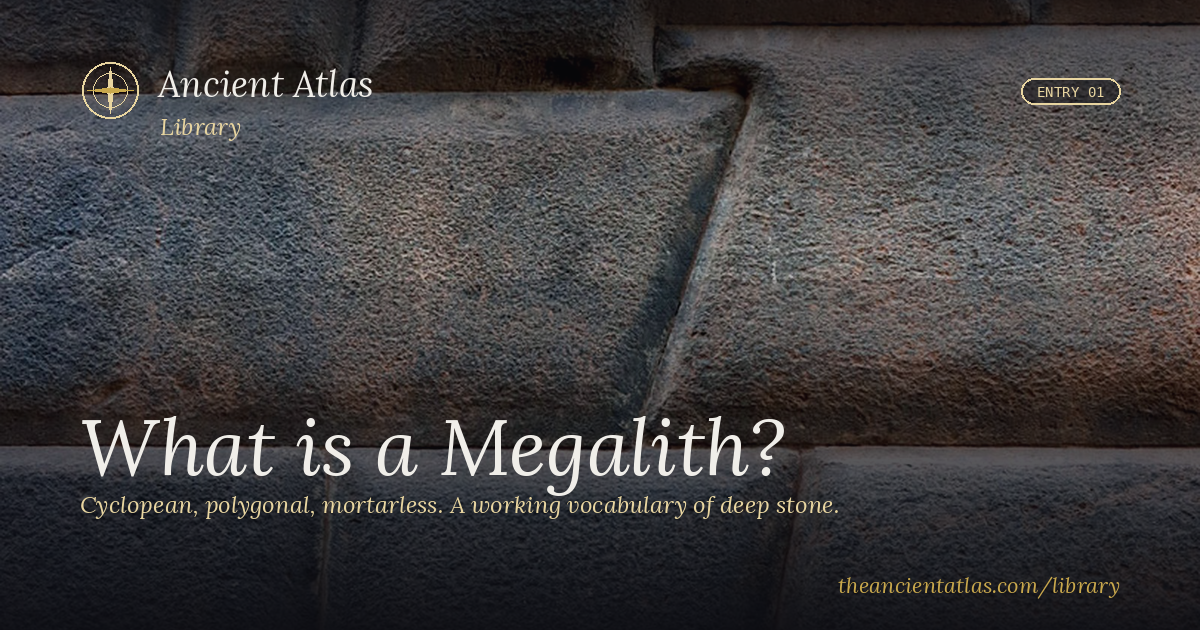
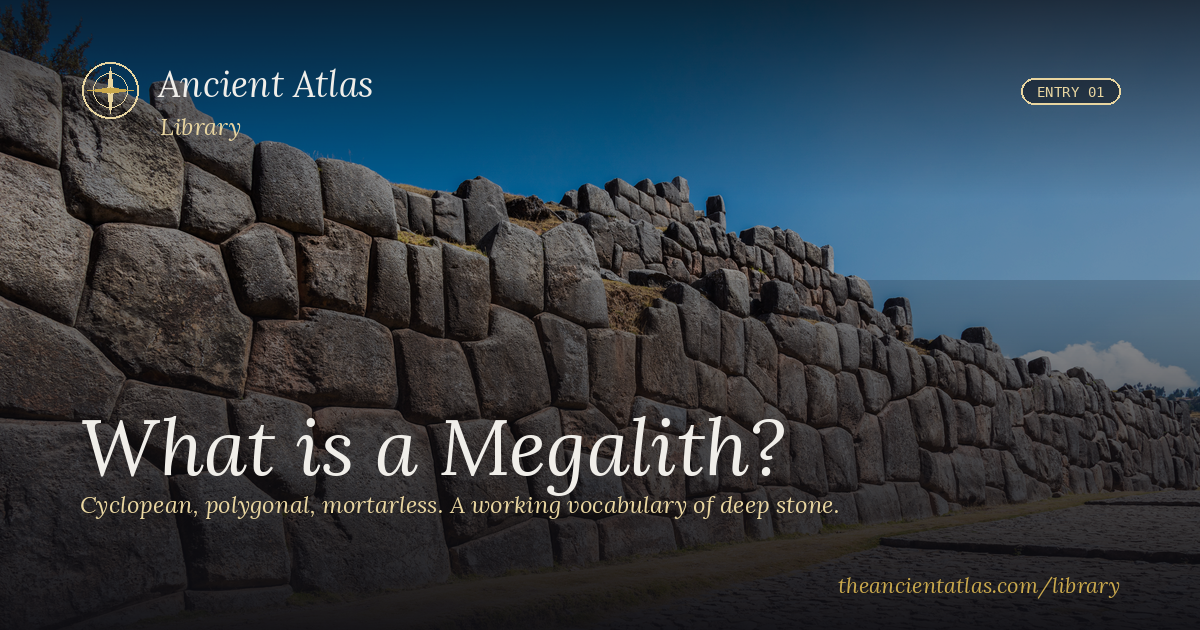
Megaliths Entry 01: add Sacsayhuamán wall photo + OG card hero
OG card now uses the iconic Sacsayhuamán polygonal-wall establishing
shot (Canon EOS 5DS R, the sweeping perspective with sky and cobble
road) instead of the earlier Cusco stepped-interlock close-up. The wide
composition is more cinematic at preview size and is the canonical
mental image of cyclopean polygonal masonry.

The photo is also added to §06 'The pattern that repeats' as the
section's anchor image, positioned between the opening Plato paragraph
and the 4-culture comparison SVG strip. Caption hits ~200-tonne block
mass, the credit-card joint test, the 7-12 sided custom seams, and
Garcilaso de la Vega's testimony that the Inca described the lower
courses as already ancient at the Conquest. Deep-link to the
Sacsayhuamán atlas entry.

Adds the same reusable figure.photo CSS block already in
stone-circles.html so future photo additions across Library entries
follow one pattern.

diff --git a/public/library/megaliths.html b/public/library/megaliths.html
@@ -694,6 +694,11 @@
   @media(max-width:700px){.share-btn span{display:none}.share-btn{padding:7px 9px}}
   .share-toast{position:fixed;bottom:32px;left:50%;transform:translateX(-50%) translateY(20px);background:#0D0D12;border:1px solid var(--champagne);color:var(--text);padding:11px 22px;border-radius:8px;font-family:var(--mono);font-size:11px;letter-spacing:.14em;text-transform:uppercase;z-index:9999;opacity:0;pointer-events:none;transition:all .25s ease-out;box-shadow:0 4px 24px rgba(201,168,76,.25)}
   .share-toast.show{opacity:1;transform:translateX(-50%) translateY(0)}
+  figure.photo{margin:32px 0 44px 0;padding:0}
+  figure.photo img{width:100%;height:auto;display:block;border-radius:6px;box-shadow:0 12px 40px rgba(0,0,0,.45),0 2px 8px rgba(0,0,0,.30)}
+  figure.photo figcaption{font-family:var(--serif,'Fraunces',Georgia,serif);font-size:14px;line-height:1.55;color:var(--text-dim,#C5C5D0);margin-top:14px;font-style:italic;text-align:left}
+  figure.photo figcaption strong{font-style:normal;color:var(--champagne,#C9A84C);font-weight:600;letter-spacing:.02em}
+  figure.photo .region-label{font-family:var(--mono,'JetBrains Mono',monospace);font-size:11px;letter-spacing:.14em;text-transform:uppercase;color:var(--champagne,#C9A84C);margin-bottom:10px}
   </style>
 </head>
 <body>
@@ -1206,6 +1211,12 @@
   <section id="sec-pattern">
     <h2><span class="sec-num">§ 06 · The pattern that repeats</span>The wall as a Platonic form.</h2>
     <p>Plato proposed that ideal forms exist independently of their specific cultural expressions : : a triangle remains a triangle whether drawn in Athens or Cusco. The premise is hard to apply to most of human-made history, where local style and material dominate. It is unusually easy to apply to the megalithic wall. There is something like an <em>ideal</em> polygonal wall, an abstract form characterized by many-sided blocks meeting at custom-cut seams, mortarless, at scale. The expression of that form varies by culture, era, and material. The form itself recurs. Four cultures, on four continents, with no plausible mechanism of contact, built variants of the same wall.</p>
+
+    <figure class="photo">
+      <div class="region-label">South America · Sacsayhuamán, Cusco, Peru</div>
+      <img src="photos/megaliths/01-sacsayhuaman-wall-sweep.jpg" alt="The lower outer wall at Sacsayhuamán above Cusco: massive polygonal andesite blocks fitted without mortar, many of them with seven or more sides, weathered grey-gold under a deep blue Andean sky." loading="lazy" />
+      <figcaption><strong>The canonical wall.</strong> The lower outer terrace at Sacsayhuamán, on the heights above Cusco. Andesite and limestone blocks fitted without mortar, the largest courses approaching <strong>200 tonnes</strong> per block, the seams cut so close that a credit card cannot be inserted between them five hundred years later. Many blocks carry seven, eight, even twelve sides : : geometry that has no construction logic in repetition but maps to a custom solution for each meeting. The Inca occupied this site from the 15th century. They almost certainly did not build the lower courses : Garcilaso de la Vega's <em>Comentarios Reales</em>, written by an Inca-Spanish historian, describes them as already ancient at the time of the Conquest. The form recurs across continents. The Sacsayhuamán wall is its most photographed expression. <a href="/?site=Sacsayhuam%C3%A1n" target="_blank" rel="noopener">Explore on the atlas →</a></figcaption>
+    </figure>
 
     <div class="wall-strip">
       <figure class="wall">

diff --git a/scripts/generate-library-og-images.py b/scripts/generate-library-og-images.py
@@ -362,7 +362,7 @@ CARDS = [
         entry=1,
         title='What is a Megalith?',
         subtitle='Cyclopean, polygonal, mortarless. A working vocabulary of deep stone.',
-        photo=PHOTOS_DIR / 'mini-megaliths' / '06-cusco-stepped-interlock.jpg',
+        photo=PHOTOS_DIR / 'megaliths' / '01-sacsayhuaman-wall-sweep.jpg',
     ),
     dict(
         slug='stone-circles',
